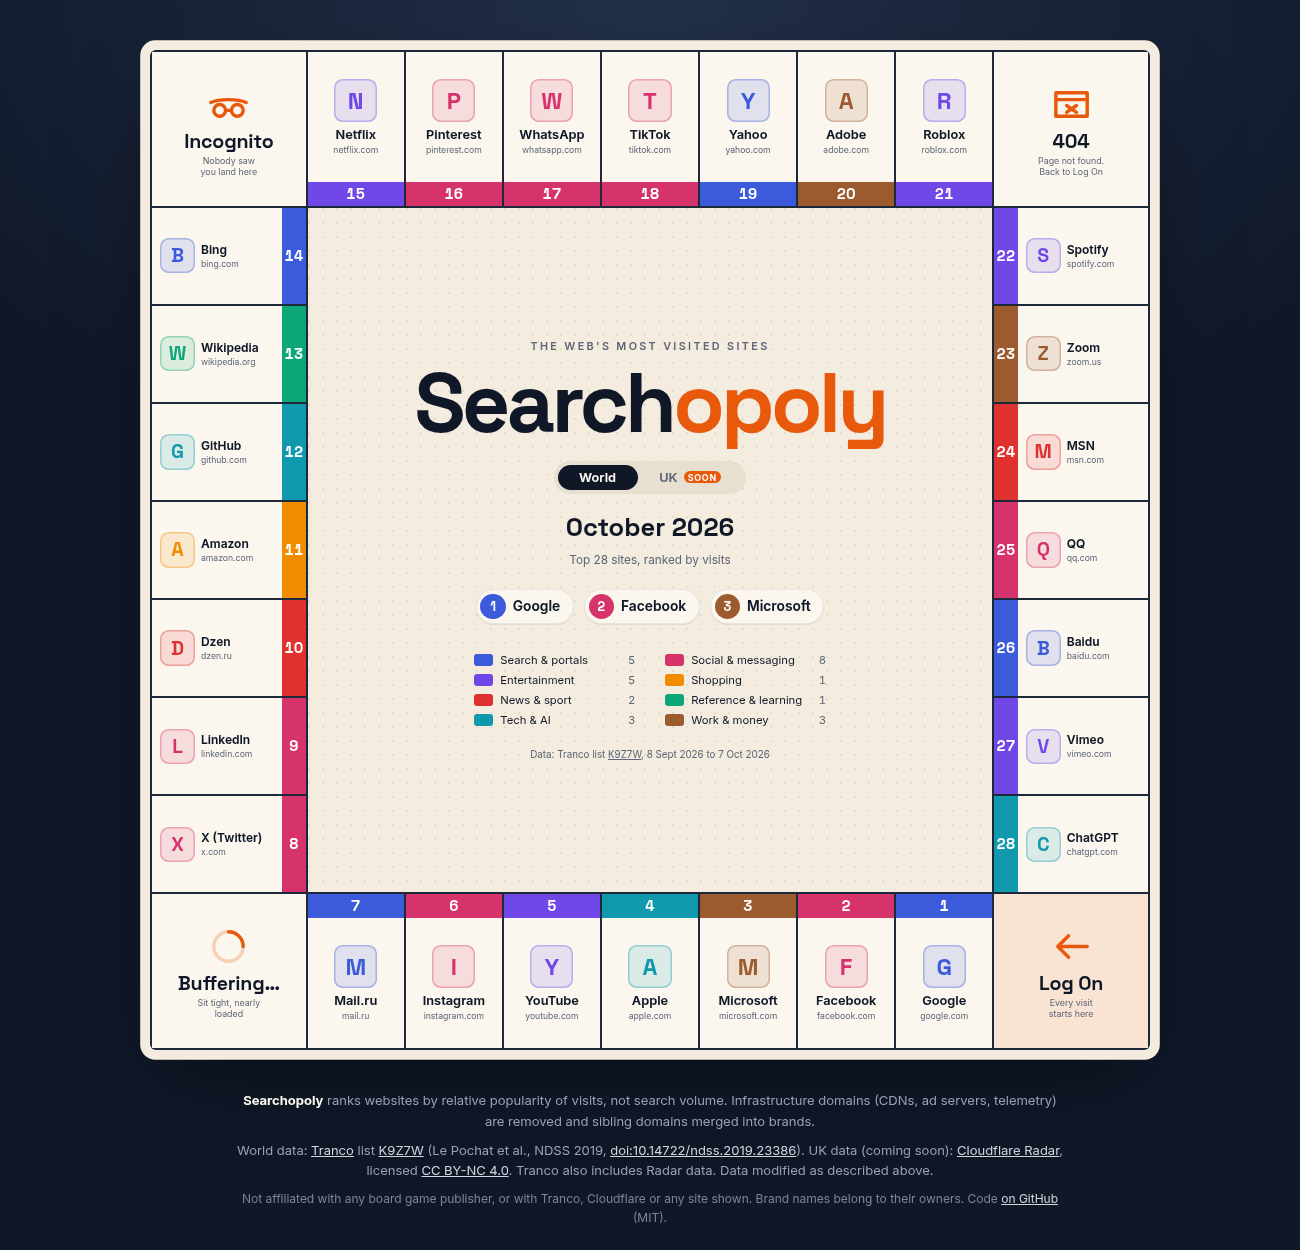
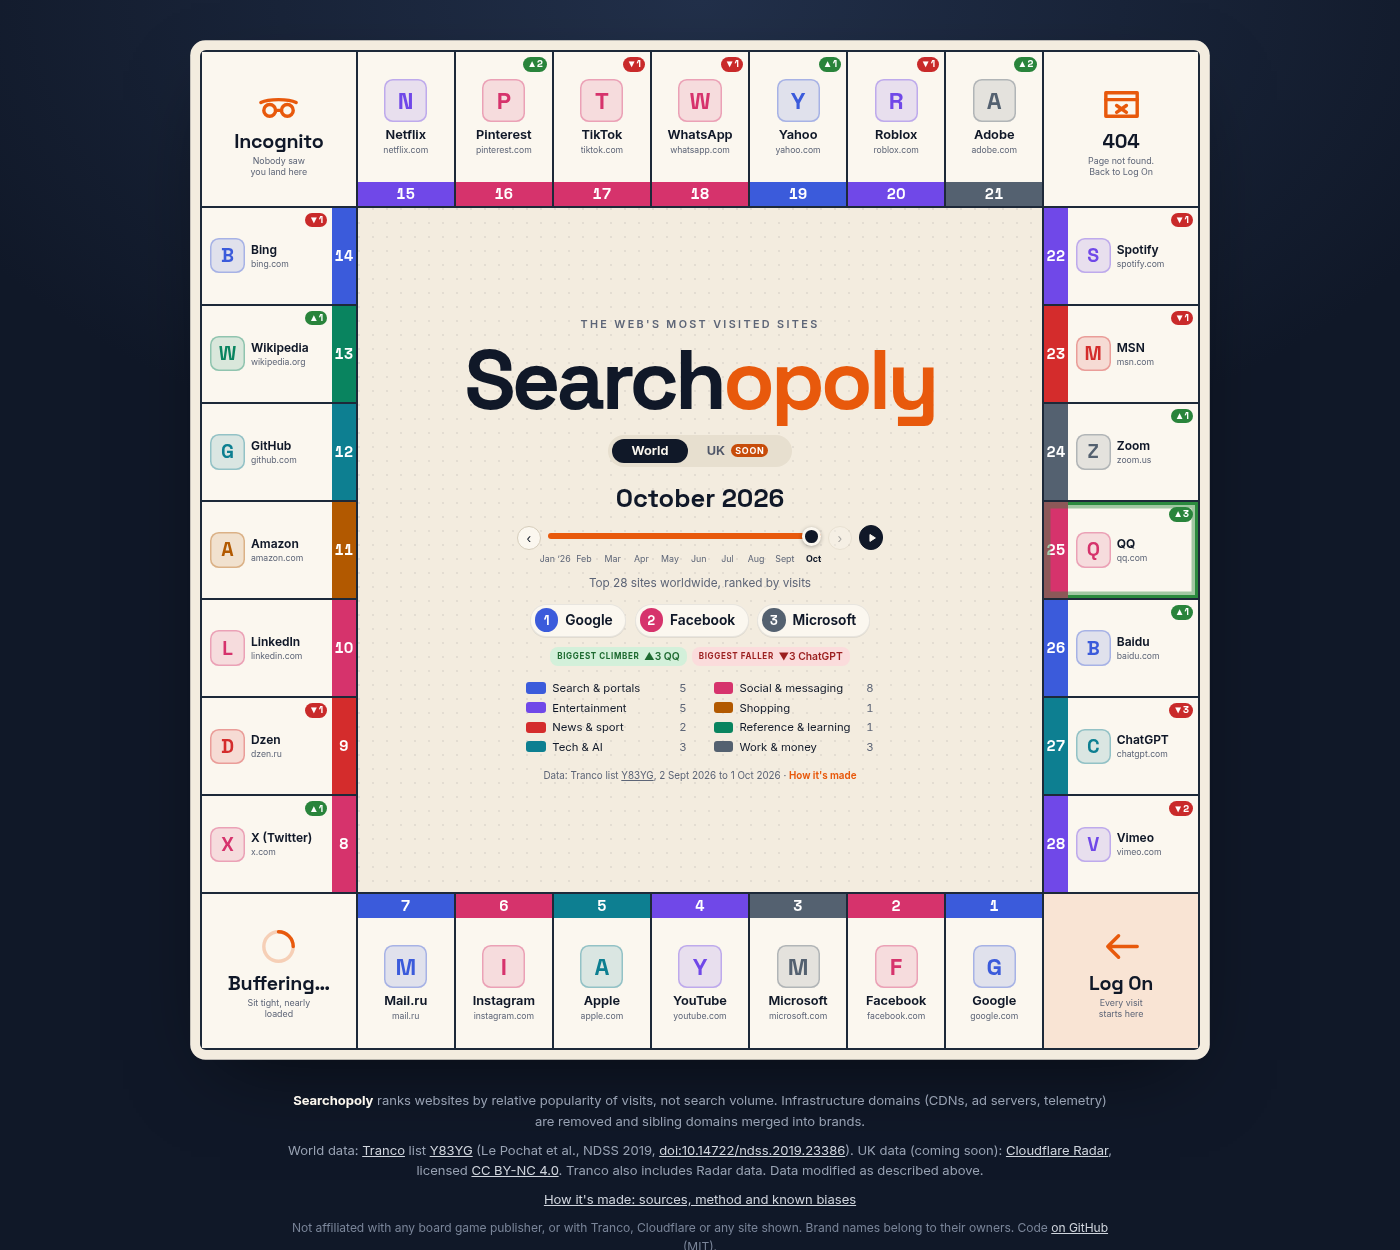
docs: LAUNCH.md checklist, README for milestone 5, refreshed screenshots

diff --git a/README.md b/README.md
@@ -5,13 +5,14 @@
 Searchopoly takes public website popularity rankings, strips out the background noise
 (CDNs, ad servers, telemetry), merges sibling domains into the brands people actually
 recognise, and lays the top 28 out as squares on a game board. Categories are the colour
-sets, and a month slider will show who climbed and who fell.
+sets, and a month slider shows who climbed and who fell. A "How it's made" page
+(`#about`) explains the method, the known biases and the credits.
 
 It's a data science portfolio project: the interesting part is the pipeline that turns
 messy, infrastructure-heavy domain rankings into an honest, explainable list of sites.
 
-> **Status:** milestone 4 of 5 (interactive board with ten months of history, updated automatically each month). Launch comes next.
-> Planned home: [searchopoly.co.uk](https://searchopoly.co.uk).
+> **Status:** all five milestones are built in code. The site goes live at
+> [searchopoly.co.uk](https://searchopoly.co.uk) once the steps in [LAUNCH.md](LAUNCH.md) are done.
 
 ![The October 2026 World board](docs/board.png)
 
@@ -21,6 +22,7 @@ messy, infrastructure-heavy domain rankings into an honest, explainable list of 
 </p>
 <p>
   <img src="docs/card.png" alt="A site card open on the board" width="62%">
+  <img src="docs/about.png" alt="The How it's made page" width="20%">
 </p>
 
 ## What it measures (and what it doesn't)
@@ -143,7 +145,15 @@ npm install
 npm run dev        # local dev server at http://localhost:5173
 npm run build      # production build into web/dist
 npm run preview    # serve the production build
+npm run og         # after a build: redraw public/og.png (the 1200x630 share image) from the real board
+npm run icons      # redraw the PNG favicons and app icons from public/favicon.svg
 ```
+
+`og` and `icons` use headless Chrome through `playwright-core` (no browser download; set
+`CHROME_PATH` if Chrome isn't in a standard place). The share image is the `#og` view of the
+site itself: the title, the month's top five and the board, screenshotted at 1200x630. Cloudflare
+Pages can't run Chrome, so `og.png` is committed. The monthly workflow redraws it whenever the
+data changes.
 
 `npm run dev` and `npm run build` first run `scripts/copy-data.mjs`, which copies the
 pipeline's JSON output from `data/` into `web/public/data/` (git-ignored). The site loads
@@ -156,13 +166,15 @@ The URL hash holds the state, so any view can be shared:
 | `#uk` | UK board ("coming soon" until `uk.json` exists) |
 | `#world/2026-06` | World board for June 2026 |
 | `#world/google`, `#world/2026-06/chatgpt` | A board with a site card open (IDs are brand slugs, e.g. `x-twitter`) |
+| `#about` | "How it's made": method, sources, curation, biases, licences, tech stack |
 
 The UK board switches on automatically as soon as the pipeline writes `uk.json` and marks it
 `ok` in `latest.json`. No front-end change is needed.
 
 ### Deploying to Cloudflare Pages
 
-Connect the GitHub repo in Cloudflare Pages and use:
+Step-by-step launch instructions (Pages, custom domain, token, going public) are in
+[LAUNCH.md](LAUNCH.md). The build settings are:
 
 | Setting | Value |
 |---------|-------|
@@ -170,7 +182,13 @@ Connect the GitHub repo in Cloudflare Pages and use:
 | Root directory | *(leave blank: repo root)* |
 | Build command | `npm ci --prefix web && npm run build --prefix web` |
 | Build output directory | `web/dist` |
-| Node version | from `.node-version` (22); or set `NODE_VERSION=22` |
+| Environment variables | `NODE_VERSION=22`, `SKIP_DEPENDENCY_INSTALL=true` (skips the pipeline's Python deps) |
+
+`web/public/` also holds `_headers` (security headers, a self-only CSP, long caching for hashed
+assets), `404.html` (served by Pages for unknown paths; views live in the hash, so real pages
+never 404), `robots.txt`, `sitemap.xml`, `site.webmanifest`, the icons and `og.png`.
+`index.html` carries the title, description, canonical URL (`https://searchopoly.co.uk/`),
+Open Graph and Twitter card tags, and JSON-LD.
 
 The build needs no secrets: the Radar token is only used by the pipeline, never by the site.
 
@@ -178,7 +196,7 @@ The build needs no secrets: the Radar token is only used by the pipeline, never 
 
 | Workflow | When | What it does |
 |----------|------|--------------|
-| [`monthly.yml`](.github/workflows/monthly.yml) | 04:17 UTC on the 3rd of each month, or by hand | Runs the tests, then `python -m pipeline.run`, then commits `data/` to `main` **only if it changed** (as `github-actions[bot]`). The push triggers a Cloudflare Pages rebuild. |
+| [`monthly.yml`](.github/workflows/monthly.yml) | 04:17 UTC on the 3rd of each month, or by hand | Runs the tests, then `python -m pipeline.run`. If the data changed, it builds the site and redraws `web/public/og.png`, then commits `data/` and `og.png` to `main` (as `github-actions[bot]`). Re-runs with no new data commit nothing. The push triggers a Cloudflare Pages rebuild. |
 | [`ci.yml`](.github/workflows/ci.yml) | Every push to `main` and every pull request | Runs `pytest` and builds the website. |
 
 The monthly run writes its report to the **job summary** (open the run in the Actions tab).
@@ -223,7 +241,7 @@ would be misleading (most UK traffic goes to `.com` sites), so there's no fake f
 - The project is non-commercial. Because Radar data is CC BY-NC (and also feeds into Tranco),
   the site shouldn't carry ads or be monetised without first checking with the data owners.
 - The data has been **modified**: infrastructure domains removed, sibling domains merged and
-  categories added. The method page (milestone 5) will say so alongside the credits.
+  categories added. The method page (`#about`) says so alongside the credits.
 - Searchopoly is not affiliated with or endorsed by Tranco, Cloudflare, or any site shown.
   Brand names belong to their owners and are used only to identify the sites.
 - The board design is original. Searchopoly is not affiliated with any board game publisher.
@@ -234,7 +252,8 @@ would be misleading (most UK traffic goes to `.com` sites), so there's no fake f
 - [x] **2. Static board.** Svelte 5 + Vite. 28 squares in 8 colour sets plus 4 original corner squares, centre panel with month, top three, legend and credits; UK "coming soon" state.
 - [x] **3. Interaction.** Site cards (rank, movement, category, raw rank, merged domains, notes on known biases), keyboard support, shareable URL hashes, UK/World toggle with URL state, mobile layout.
 - [x] **4. Movement.** Month slider with play button; squares and list rows glide to their new positions (FLIP animation, off under reduced motion); ▲/▼/NEW badges, biggest climber and faller, a rank-over-time sparkline on each card; ten months of real backfilled data; monthly and CI GitHub Actions workflows.
-- [ ] **5. Launch.** "How it's made" method page with full credits, custom domain on Cloudflare Pages, share images.
+- [x] **5. Launch (code).** "How it's made" method page with full credits; Open Graph/Twitter tags and a share image drawn from the real board each month; favicon and app icons; Share button on site cards (Web Share API, copy-link fallback); robots.txt, sitemap, 404 page, security headers. Lighthouse: 100/100/100/100 on desktop, 99/100/100/100 on mobile.
+- [ ] **Go live.** Cloudflare Pages, custom domain, Radar token, public repo: see [LAUNCH.md](LAUNCH.md).
 
 ## Front-end design notes
 
@@ -259,6 +278,13 @@ would be misleading (most UK traffic goes to `.com` sites), so there's no fake f
   pulsing outline. With `prefers-reduced-motion`, everything jumps straight to the new state.
 - **Sparkline:** each card plots the site's rank by month (D3 scales and line generator), with
   gaps for months it was off the board.
+- **Sharing:** the card's Share button opens the device share sheet (Web Share API) with the
+  card's URL, e.g. `searchopoly.co.uk/#world/github`. Where that isn't available it copies the
+  link and says "Link copied".
+- **Accessibility and colour:** colour-set and movement colours meet WCAG AA contrast against
+  the cream squares. Squares and rows are buttons whose accessible name starts with the visible
+  text (rank, brand, domain), followed by visually hidden context. The app waits for data and
+  fonts before drawing, so nothing jumps about (layout shift 0).
 - **Mobile (≤700px):** the centre panel moves to the top, followed by a ranked list that keeps the
   colour bands. Site cards open as a bottom sheet.
 
@@ -270,7 +296,9 @@ web/
   src/lib/Board.svelte  # desktop board grid
   src/lib/CentrePanel.svelte # title, toggle, top three, legend, source
   src/lib/MobileList.svelte  # mobile ranked list
-  src/lib/SiteCard.svelte    # site card dialog
+  src/lib/SiteCard.svelte    # site card dialog and Share button
+  src/lib/About.svelte       # "How it's made" page (#about)
+  src/lib/OgCard.svelte      # 1200x630 share-image layout (#og)
   src/lib/MonthPicker.svelte # month slider and play button
   src/lib/Sparkline.svelte   # rank-over-time chart on the card
   src/lib/movement.js        # movement badges and movers summary
@@ -280,6 +308,9 @@ web/
   src/lib/layout.js     # square positions, corner names
   src/lib/groups.js     # the 8 colour sets
   scripts/copy-data.mjs # copies data/ into the build
+  scripts/og-image.mjs  # npm run og: screenshots #og into public/og.png
+  scripts/icons.mjs     # npm run icons: PNG icons from favicon.svg
+  public/               # favicon, icons, og.png, _headers, 404.html, robots.txt, sitemap.xml
 pipeline/
   run.py          # entry point: python -m pipeline.run
   tranco.py       # Tranco list metadata and download

diff --git a/LAUNCH.md b/LAUNCH.md
@@ -1,0 +1,111 @@
+# Launch checklist
+
+Everything in the code is ready. These steps need Dec's own accounts, so they are done by hand.
+Work through them in order; the whole thing takes about 30 minutes plus DNS waiting time.
+
+## 1. Connect the repo to Cloudflare Pages
+
+Pages can build from a private repo, so this works before the repo is public.
+
+1. Cloudflare dashboard → **Workers & Pages** → **Create application** → **Pages** →
+   **Connect to Git**. Sign in with GitHub and give Cloudflare access to `decgagan/searchopoly`
+   only (not all repositories).
+2. Pick `searchopoly` and **Begin setup**, then use these settings exactly:
+
+   | Setting | Value |
+   |---------|-------|
+   | Project name | `searchopoly` (gives `searchopoly.pages.dev`) |
+   | Production branch | `main` |
+   | Framework preset | `None` |
+   | Build command | `npm ci --prefix web && npm run build --prefix web` |
+   | Build output directory | `web/dist` |
+   | Root directory (advanced) | leave blank (the repo root: the build copies `data/` into the site) |
+
+3. **Environment variables (advanced)** → add both, for Production and Preview:
+
+   | Variable | Value | Why |
+   |----------|-------|-----|
+   | `NODE_VERSION` | `22` | Matches `.node-version` and CI |
+   | `SKIP_DEPENDENCY_INSTALL` | `true` | Stops Pages pip-installing the pipeline's `requirements.txt`, which the site doesn't need |
+
+4. **Save and Deploy**. The build takes about a minute. Open `https://searchopoly.pages.dev` and
+   check that the board, a site card, `#about`, and `/does-not-exist` (the custom 404 page) all work.
+
+No secrets go into Pages. The site is static, and `web/public/_headers` already sets caching and
+security headers.
+
+## 2. Point searchopoly.co.uk at Cloudflare (Namecheap → Cloudflare nameservers)
+
+1. Cloudflare dashboard → **Add a domain** → `searchopoly.co.uk` → **Free** plan. Let it import
+   the existing DNS records (if there are any parking records from Namecheap, delete them).
+2. Cloudflare shows **two nameservers** (something like `xxx.ns.cloudflare.com` and
+   `yyy.ns.cloudflare.com`). Copy them exactly. They are unique to the account.
+3. Namecheap → **Domain List** → **Manage** next to `searchopoly.co.uk`:
+   - If **DNSSEC** is switched on under **Advanced DNS**, switch it off first.
+   - **Nameservers** → choose **Custom DNS** → paste the two Cloudflare nameservers → ✓ save.
+4. Back in Cloudflare, click **Check nameservers now**. The domain usually goes **Active**
+   within an hour (it can take up to 24 hours). Cloudflare sends an email when it does.
+
+## 3. Add the custom domain to the Pages project
+
+1. **Workers & Pages** → `searchopoly` → **Custom domains** → **Set up a custom domain** →
+   `searchopoly.co.uk` → **Activate domain**. Cloudflare creates the DNS record and the
+   certificate itself.
+2. Repeat for `www.searchopoly.co.uk`. Then send www to the bare domain:
+   **searchopoly.co.uk zone → Rules → Redirect Rules → Create rule → template
+   "Redirect from WWW to root"** (301, keep the path).
+3. Check that `https://searchopoly.co.uk` loads with a padlock. Under **SSL/TLS** → **Edge
+   Certificates**, switch on **Always Use HTTPS**.
+
+The canonical URL, `og:url`, `robots.txt` and `sitemap.xml` all already use
+`https://searchopoly.co.uk`.
+
+## 4. Add the Radar token so the UK board goes live
+
+1. Cloudflare → **My Profile** → **API Tokens** → **Create Token** → **Create Custom Token** →
+   permission **Account → Radar → Read** → create, then copy the token (it is shown once).
+2. Add it as a repo secret named `CLOUDFLARE_API_TOKEN`:
+   **GitHub repo → Settings → Secrets and variables → Actions → New repository secret**, or
+   ```bash
+   gh secret set CLOUDFLARE_API_TOKEN --repo decgagan/searchopoly
+   ```
+3. **Actions → Monthly snapshot → Run workflow** (leave the month blank). It commits the UK data
+   and a fresh `og.png`, and that push makes Pages redeploy. The UK toggle loses its "soon" pill.
+
+## 5. Fill in the LinkedIn link
+
+In `web/src/lib/About.svelte`, set `LINKEDIN_URL` (marked `TODO(Dec)`) to the full profile URL,
+for example `https://www.linkedin.com/in/your-name/`. The LinkedIn button stays hidden until
+this is filled in. Commit and push; Pages redeploys on its own.
+
+## 6. Make the repo public
+
+Do this last, once the site is live and looks right.
+
+- **GitHub repo → Settings → General → Danger Zone → Change visibility → Make public**, or
+  `gh repo edit decgagan/searchopoly --visibility public --accept-visibility-change-consequences`.
+- This makes the "Source code" links on the site and in the README work for visitors.
+- Nothing secret is in the history: the Radar token only ever lives in the Actions secret.
+  The repo has been checked for committed tokens.
+
+## 7. Pin it on the GitHub profile
+
+1. Go to `https://github.com/decgagan` → **Customize your pins** → tick `searchopoly` → **Save pins**.
+2. On the repo page, click the ⚙ next to **About** and set:
+   - Website: `https://searchopoly.co.uk`
+   - Description: *The web's most visited sites as a board game, World vs UK, updated monthly.*
+   - Topics: `data-visualisation`, `svelte`, `d3`, `python`, `github-actions`, `cloudflare-pages`.
+3. Under **Settings → General → Social preview**, upload `web/public/og.png`, so links to the repo
+   use the same card.
+
+## After launch: quick checks
+
+- [ ] Paste `https://searchopoly.co.uk` into a LinkedIn post draft (or
+      [opengraph.xyz](https://www.opengraph.xyz/)) and check that the share card shows the board image.
+- [ ] Open a site card on a phone and press **Share**: the phone's share sheet should open.
+- [ ] Submit `https://searchopoly.co.uk/sitemap.xml` in Google Search Console (optional).
+- [ ] On the 3rd of next month, check that the **Monthly snapshot** run is green and the site
+      updated.
+- [ ] If Cloudflare Web Analytics is switched on later, add `https://static.cloudflareinsights.com`
+      to `script-src`, and `https://cloudflareinsights.com` to `connect-src`, in
+      `web/public/_headers`. The current CSP allows the site's own files only.
